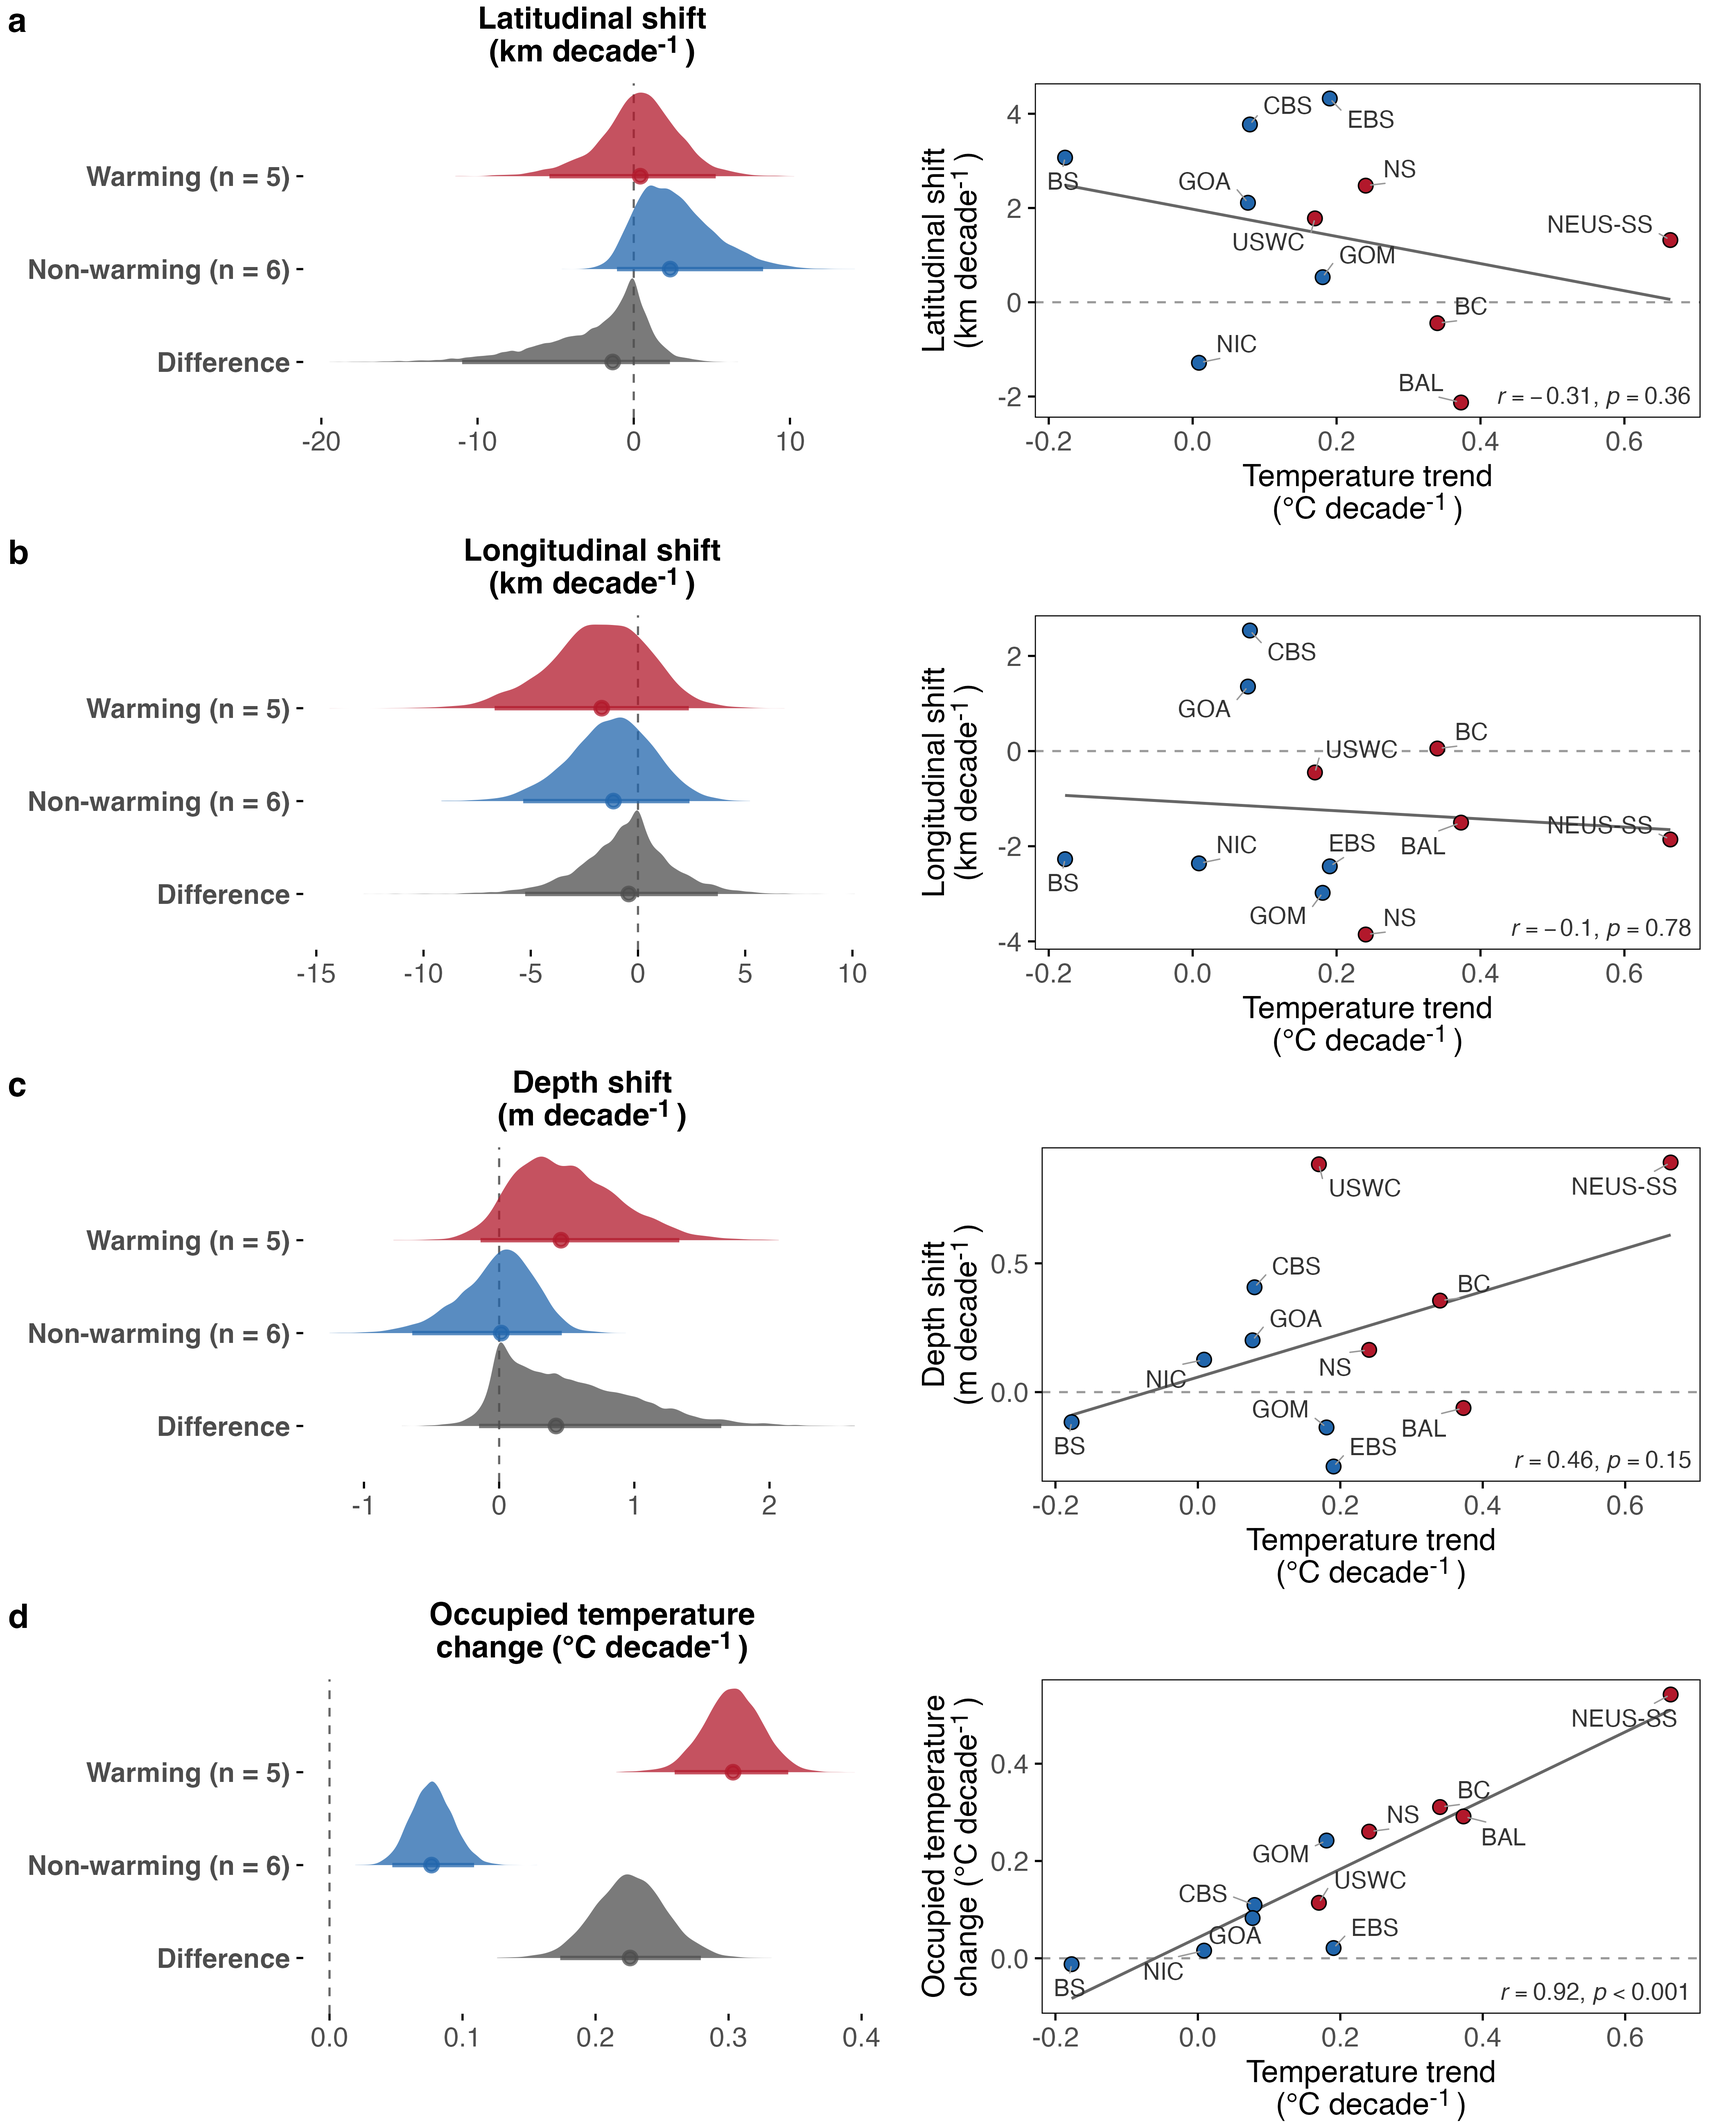
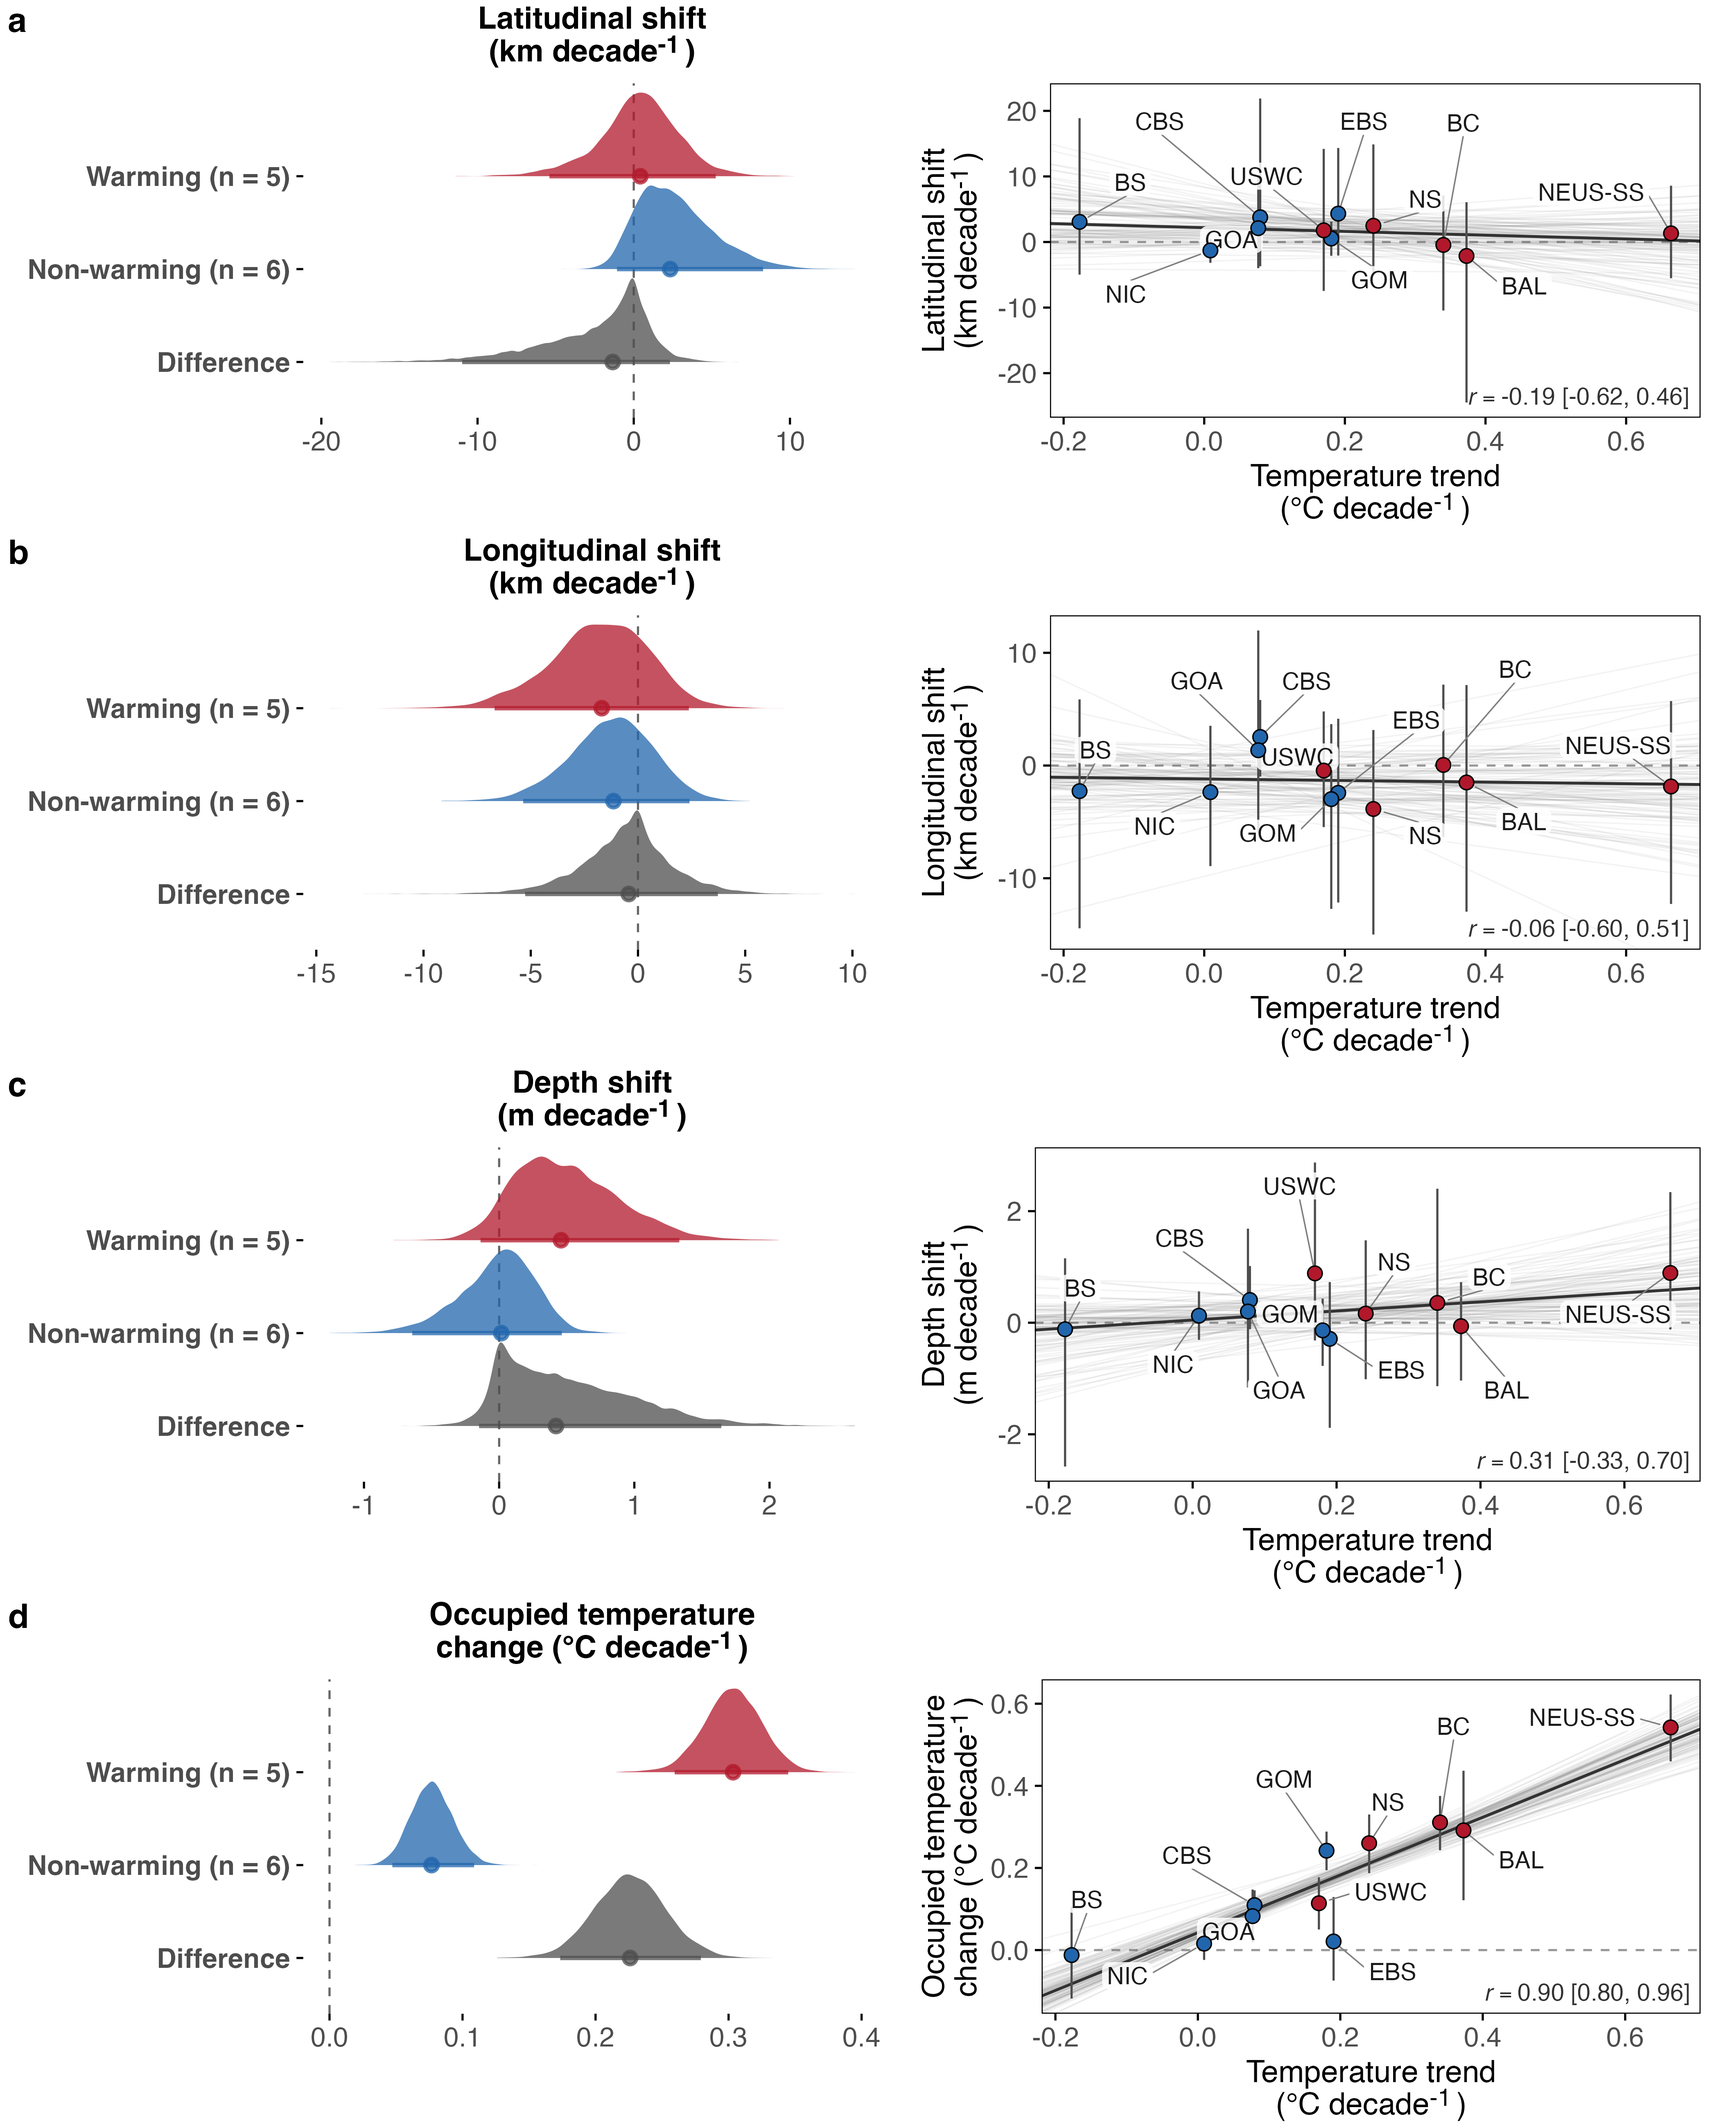
updated fig s3

diff --git a/tex/main/main_rev2.tex b/tex/main/main_rev2.tex
@@ -124,7 +124,7 @@ Marine regions: EBS = Eastern Bering Sea, GOA = Gulf of Alaska, BC = British Col
 
 Bottom temperature increased significantly in five of the eleven regions---British Columbia, the U.S. West Coast, the Northeast U.S. and Scotian Shelf, the North Sea and the Baltic Sea (Fig.~\ref{fig:map}). Populations in these regions experienced considerably greater warming of occupied temperature than those elsewhere (\WarmGrpWarmThermalMedian{}~$^\circ$C~decade$^{-1}$ \WarmGrpWarmThermalCI{} versus \WarmGrpNonWarmThermalMedian{} \WarmGrpNonWarmThermalCI{}; posterior difference \WarmGrpDiffThermalMedian{} \WarmGrpDiffThermalCI{}; Supplementary Fig.~S3), confirming that the two groups differed in the climate signal they experienced. Spatial trends, by contrast, were similar between groups. Latitudinal trends were \WarmGrpWarmLatMedian{}~km~decade$^{-1}$ \WarmGrpWarmLatCI{} in warming regions and \WarmGrpNonWarmLatMedian{} \WarmGrpNonWarmLatCI{} elsewhere (difference \WarmGrpDiffLatMedian{} \WarmGrpDiffLatCI{}), and longitudinal trends were \WarmGrpWarmLonMedian{} \WarmGrpWarmLonCI{} and \WarmGrpNonWarmLonMedian{} \WarmGrpNonWarmLonCI{}, respectively (difference \WarmGrpDiffLonMedian{} \WarmGrpDiffLonCI{}). Depth showed the only suggestive difference, with greater deepening in regions that warmed (\WarmGrpWarmDepthMedian{}~m~decade$^{-1}$ \WarmGrpWarmDepthCI{} versus \WarmGrpNonWarmDepthMedian{} \WarmGrpNonWarmDepthCI{}; difference \WarmGrpDiffDepthMedian{} \WarmGrpDiffDepthCI{}; Supplementary Fig.~S3c), although this interval also included zero.
 
-Treating regional warming as a continuous gradient gave the same picture (Supplementary Fig.~S3). Across the eleven regions, trends in occupied temperature closely followed regional bottom-temperature trends (Pearson \CorThermal{}), whereas trends in latitude, longitude and depth showed no detectable correlation (\CorLat{}, \CorLatCI{}; \CorLon{}, \CorLonCI{}; \CorDepth{}, \CorDepthCI{}), with depth again the strongest of the three and in the direction expected under warming.
+Treating regional warming as a continuous gradient gave the same picture (Supplementary Fig.~S3). Across the eleven regions, trends in occupied temperature closely followed regional bottom-temperature trends (Pearson \CorThermal{}, \CorThermalCI{}), whereas correlations for latitude, longitude and depth were weak, with credible intervals spanning zero (\CorLat{}, \CorLatCI{}; \CorLon{}, \CorLonCI{}; \CorDepth{}, \CorDepthCI{}), depth again being the strongest of the three and in the direction expected under warming.
 
 \subsection*{Populations moved substantially, but in opposing directions}
 \input{../../output/values/bayesian_trend_analysis/species_slopes}
@@ -263,7 +263,7 @@ Species-level slope deviations were modelled jointly across responses using a MV
 Priors were weakly informative and guided by published rates of range shifts, depth changes, and ocean warming (Supplementary Appendix B). We fit models in R using the \texttt{brms} package \citep{burkner_brms_2017}, which interfaces with Stan via \texttt{rstan} \citep{stan2024,stan_development_team_rstan_2024}. Supplementary Appendix B Table~S3 maps each term in Eqs.~\ref{eq:likelihood}--\ref{eq:corrmatrix} to the corresponding object in the fitting code. We sampled from each model with four Markov chain Monte Carlo (MCMC) chains of 4,000 iterations, discarding the first 2,000 as warm-up. The remaining 2,000 samples per chain (8,000 total post–warm-up draws) formed the posterior distribution. Consistency with convergence was confirmed by $\hat{R} < 1.01$, absence of divergent transitions, and effective sample sizes $> 400$ for all key parameters \citep{vehtari_rank-normalization_2021}, as detailed in Supplementary Appendix B.
 
 \subsection*{Regional warming rates and response scaling}
-We estimated a temperature trend for each region by fitting a linear regression to annual mean bottom temperature across the regional prediction grid over that region's sampled period, expressed per decade (Fig.~\ref{fig:map}). Regions were then grouped by whether this trend differed significantly from zero ($p < 0.05$). For each posterior draw we computed the slope for each region as the global effect plus that region's deviation, averaged these across regions within each group with regions weighted equally, and took the difference between groups in the same draw. Group means and their difference are summarised as posterior medians and 95\% credible intervals. To assess whether responses scaled with local warming as a continuous gradient, we additionally correlated the region-level posterior median slope for each response with the corresponding regional temperature trend across the eleven regions (Pearson correlation, denoted \textit{r}). These correlations are computed after model fitting, on posterior medians, and are distinct from the within-region correlations among responses estimated inside the model ($\rho$; Eq.~\ref{eq:corrmatrix}), which are posterior parameters.
+We estimated a temperature trend for each region by fitting a linear regression to annual mean bottom temperature across the regional prediction grid over that region's sampled period, expressed per decade (Fig.~\ref{fig:map}). Regions were then grouped by whether this trend differed significantly from zero ($p < 0.05$). For each posterior draw we computed the slope for each region as the global effect plus that region's deviation, averaged these across regions within each group with regions weighted equally, and took the difference between groups in the same draw. Group means and their difference are summarised as posterior medians and 95\% credible intervals. To assess whether responses scaled with local warming as a continuous gradient, we additionally computed, within each posterior draw, the Pearson correlation (denoted \textit{r}) between the eleven region-level slopes for each response and the corresponding regional temperature trends. This yields a posterior distribution of \textit{r} that propagates uncertainty in the regional slopes (temperature trends were treated as fixed), which we summarise by its median, 95\% credible interval and the posterior probability that \textit{r} has the same sign as its median. These correlations are computed after model fitting and are distinct from the within-region correlations among responses estimated inside the model ($\rho$; Eq.~\ref{eq:corrmatrix}), which are posterior parameters.
 }
 
 

diff --git a/tex/supp/supplementary_info.tex b/tex/supp/supplementary_info.tex
@@ -43,7 +43,7 @@
 \begin{figure}
 \centering
 \includegraphics[width=1\textwidth]{../../output/figures/supp/warming_group_slopes.png}
-\caption{Region-averaged posterior slopes for (a) latitudinal shift, (b) longitudinal shift, (c) depth shift and (d) change in mean occupied bottom temperature. Left plots show posterior densities and 95\% credible intervals for regions with a significant bottom-temperature trend (warming, $n = 5$: BC, USWC, NEUS-SS, NS, BAL; red), for those without (non-warming, $n = 6$: EBS, GOA, GOM, BS, CBS, NIC; blue), and for their difference (grey); regions are weighted equally and differences computed within draws. Right plots show each region's posterior median slope against its bottom-temperature trend ($^{\circ}$C decade$^{-1}$), with a fitted linear regression (solid line) and the Pearson correlation and $p$-value. Region codes: BC, British Columbia; USWC, U.S. West Coast; NEUS-SS, Northeast U.S. and Scotian Shelf; NS, North Sea; BAL, Baltic Sea; EBS, Eastern Bering Sea; GOA, Gulf of Alaska; GOM, Gulf of Mexico; BS, Barents Sea; CBS, Celtic--Biscay Shelf; NIC, Northern Iberian Coast.}
+\caption{Region-averaged posterior slopes for (a) latitudinal shift, (b) longitudinal shift, (c) depth shift and (d) change in mean occupied bottom temperature. Left plots show posterior densities and 95\% credible intervals for regions with a significant bottom-temperature trend (warming, $n = 5$: BC, USWC, NEUS-SS, NS, BAL; red), for those without (non-warming, $n = 6$: EBS, GOA, GOM, BS, CBS, NIC; blue), and for their difference (grey); regions are weighted equally and differences computed within draws. Right plots show each region's posterior median slope (points) and 95\% credible interval (vertical bars) against its bottom-temperature trend ($^{\circ}$C decade$^{-1}$). Grey lines are linear regressions fitted to 100 random posterior draws of the regional slopes and the solid line is the posterior median regression; the annotation gives the posterior median Pearson correlation ($r$), computed within each draw, with its 95\% credible interval. Region codes: BC, British Columbia; USWC, U.S. West Coast; NEUS-SS, Northeast U.S. and Scotian Shelf; NS, North Sea; BAL, Baltic Sea; EBS, Eastern Bering Sea; GOA, Gulf of Alaska; GOM, Gulf of Mexico; BS, Barents Sea; CBS, Celtic--Biscay Shelf; NIC, Northern Iberian Coast.}
 \end{figure}
 
 

diff --git a/output/values/bayesian_trend_analysis/temp_correlations.tex b/output/values/bayesian_trend_analysis/temp_correlations.tex
@@ -1,16 +1,16 @@
-\newcommand{\CorLatR}{-0.31}
-\newcommand{\CorLatP}{0.36}
-\newcommand{\CorLat}{$r = -0.31$, $p = 0.36$}
-\newcommand{\CorLatCI}{[95\% CI: -0.76, 0.36]}
-\newcommand{\CorLonR}{-0.10}
-\newcommand{\CorLonP}{0.78}
-\newcommand{\CorLon}{$r = -0.10$, $p = 0.78$}
-\newcommand{\CorLonCI}{[95\% CI: -0.66, 0.53]}
-\newcommand{\CorDepthR}{0.46}
-\newcommand{\CorDepthP}{0.15}
-\newcommand{\CorDepth}{$r = 0.46$, $p = 0.15$}
-\newcommand{\CorDepthCI}{[95\% CI: -0.19, 0.83]}
-\newcommand{\CorThermalR}{0.92}
-\newcommand{\CorThermalP}{$<$0.001}
-\newcommand{\CorThermal}{$r = 0.92$, $p < 0.001$}
-\newcommand{\CorThermalCI}{[95\% CI: 0.72, 0.98]}
+\newcommand{\CorLatR}{-0.19}
+\newcommand{\CorLatPD}{0.72}
+\newcommand{\CorLat}{$r = -0.19$, $\Pr(r < 0) = 0.72$}
+\newcommand{\CorLatCI}{[95\% CI: -0.62, 0.46]}
+\newcommand{\CorLonR}{-0.06}
+\newcommand{\CorLonPD}{0.58}
+\newcommand{\CorLon}{$r = -0.06$, $\Pr(r < 0) = 0.58$}
+\newcommand{\CorLonCI}{[95\% CI: -0.60, 0.51]}
+\newcommand{\CorDepthR}{0.31}
+\newcommand{\CorDepthPD}{0.84}
+\newcommand{\CorDepth}{$r = 0.31$, $\Pr(r > 0) = 0.84$}
+\newcommand{\CorDepthCI}{[95\% CI: -0.33, 0.70]}
+\newcommand{\CorThermalR}{0.90}
+\newcommand{\CorThermalPD}{$>$0.99}
+\newcommand{\CorThermal}{$r = 0.90$, $\Pr(r > 0) > 0.99$}
+\newcommand{\CorThermalCI}{[95\% CI: 0.80, 0.96]}
